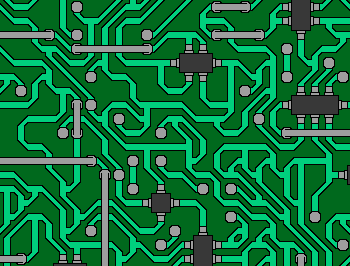
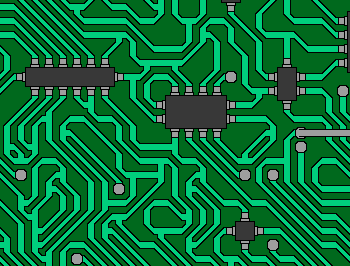
Document the three consumers and the demo page
The README described one command line tool with a feature list that no longer
matches anything. It now covers the library, the command, and the wasm solver,
with a working example of each. The library example is a doctest as well, so it
cannot drift.

AGENTS.md records what the code does not: which package owns what, the build
command per target, and the things that are easy to get wrong. Chief among
them, a sample image's tile size lives in its file name rather than anywhere in
the repo, so castle-115x30.png at 805 by 210 pixels wants -i 7 and a wrong
guess yields a tile set that cannot tile anything.

The example images are regenerated, since dropping unplaceable tiles changed
the landscape one.

diff --git a/crates/wave-function-collapse/src/lib.rs b/crates/wave-function-collapse/src/lib.rs
@@ -4,6 +4,41 @@
 //! sides. What a tile *is* stays with the caller: [`Tile`] carries a value of any
 //! type and the algorithm never reads it, so a caller that only needs the layout
 //! can solve over `Tile<()>`.
+//!
+//! # Examples
+//!
+//! ```
+//! use std::sync::Arc;
+//! use wave_function_collapse::{Grid, Neighbors, Set, SuperState, Tile, Wave};
+//!
+//! // Land never touches sea; shore goes between. The rules have to read the same
+//! // from both sides, or nothing can satisfy them.
+//! let tiles: Vec<Tile<&str>> = [
+//!     ("land", 0u64, [0, 1].as_slice()),
+//!     ("shore", 1, &[0, 1, 2]),
+//!     ("sea", 2, &[1, 2]),
+//! ]
+//! .into_iter()
+//! .map(|(name, id, allowed)| {
+//!     let allowed: Set<u64> = allowed.iter().copied().collect();
+//!
+//!     Tile::with_neighbors(id, name, 1, Neighbors::from_fn(|_| allowed.clone()))
+//! })
+//! .collect();
+//!
+//! let base = SuperState::new(tiles.into_iter().map(Arc::new).collect());
+//! let grid = Grid::new(40, 24, &mut |_, _| base.clone());
+//! let mut wave = Wave::new(grid, 20260903);
+//!
+//! wave.run(100);
+//! assert!(wave.done(), "gave up after {} restarts", wave.restarts());
+//!
+//! for (_x, _y, cell) in wave.grid().iter() {
+//!     let tile = cell.collapsed().expect("a finished wave has no open cell");
+//!
+//!     assert!(["land", "shore", "sea"].contains(&tile.value));
+//! }
+//! ```
 
 pub mod error;
 pub mod grid;

diff --git a/README.md b/README.md
@@ -1,63 +1,211 @@
 # Wave Function Collapse
 
-High-performance Rust implementation of the Wave Function Collapse algorithm for procedural image generation.
+Wave function collapse over a tile set, as a Rust library, a command line image
+generator, and a WebAssembly solver a JavaScript or TypeScript host can drive.
 
-## What it does
+Give it a set of tiles and which tiles may sit against which, and it fills a grid so
+that every neighbouring pair obeys those rules. Point it at a sample image instead
+and it works the tile set out for itself, cutting the image into a grid and reading
+adjacency from which tiles touch, so the output resembles the sample everywhere close
+up while being new at any larger scale.
 
-Wave Function Collapse analyzes patterns in an input image and generates new images that locally resemble the original while creating novel, larger compositions. The algorithm extracts small tile patterns from the input, learns adjacency rules, and uses constraint propagation to generate coherent output.
+![Circuit output](examples/circuit-example.png)
 
-## Usage
+## Layout
 
-Generate an image from a pattern:
+| Package | What it is |
+| --- | --- |
+| [`crates/wave-function-collapse`](crates/wave-function-collapse) | The algorithm. Six dependencies, no image handling, no I/O. |
+| [`crates/wfc-cli`](crates/wfc-cli) | The `wfc` command. Sample images, tile configs, PNG output, a live SDL2 view. |
+| [`crates/wfc-wasm`](crates/wfc-wasm) | The solver as a JavaScript module. Tile definitions in, grid state out. |
+
+A tile carries a value of any type that the algorithm never reads, so what a tile
+*is* belongs to whoever is using it: a `DynamicImage` for the command line tool, `()`
+for the wasm solver, whatever suits a caller of the library.
+
+## The command line tool
+
 ```sh
-cargo run --release -- images/circuit-1-57x30.png -i 14 -o 50x50 output/circuit-1.png
+cargo install --path crates/wfc-cli
 ```
 
-Visual mode (real-time generation):
+Needs SDL2 for the live view. Build with `--no-default-features` to skip it.
+
+Cut a sample image into 14 pixel tiles and fill a 50 by 50 grid:
+
 ```sh
-cargo run --release -- images/circuit-1-57x30.png -i 14 -o 50x50 --visual
+wfc images/circuit-1-57x30.png -i 14 -o 50x50 circuit.png
 ```
 
-## Feature Flags
+Watch it collapse in a window instead of writing a file:
 
-- `image` (default): Enables image processing, serialization, and text rendering
-- `sdl2` (default): Enables visual mode with real-time generation display
-- `threaded`: Enables parallel processing for faster generation
-
-Build with specific features:
 ```sh
-cargo build --release --features "image,threaded"  # Fast generation without visual mode
-cargo build --release --no-default-features --features "image"  # Minimal build
+wfc images/circuit-1-57x30.png -i 14 -o 50x50 --visual
 ```
+
+`-i` has to match the sample's tile size or the tiles come out as noise. The sample
+file names carry the grid, so `castle-115x30.png` at 805 by 210 pixels wants `-i 7`.
+
+Pass `--seed` to reproduce a result, `--slow` to redraw after every step, and
+`--max-restarts` to change how long it tries before giving up on a tile set that may
+not be able to fill the grid. `wfc --help` has the rest.
+
+A tile set can also be written out by hand, as JSON naming an image and four edge
+labels per tile, in up, right, down, left order. Two tiles may sit beside each other
+when the label on the side that touches reads as the reverse of the other's. These
+two therefore alternate, since neither label reverses to itself:
+
+```json
+[
+    { "image": "tiles/light.png", "slots": ["ab", "ab", "ab", "ab"] },
+    { "image": "tiles/dark.png",  "slots": ["ba", "ba", "ba", "ba"] }
+]
+```
+
+```sh
+wfc tiles.json -o 40x40 pipes.png
+```
+
+## The library
+
+```toml
+[dependencies]
+wave-function-collapse = "2"
+```
+
+Nothing optional, nothing to turn off, and no image or CLI dependency to inherit.
+
+```rust
+use std::sync::Arc;
+use wave_function_collapse::{Grid, Neighbors, Set, SuperState, Tile, Wave};
+
+// Land never touches sea; shore goes between. The rules have to read the same
+// from both sides, or nothing can satisfy them.
+let tiles: Vec<Tile<&str>> = [
+    ("land", 0u64, [0, 1].as_slice()),
+    ("shore", 1, &[0, 1, 2]),
+    ("sea", 2, &[1, 2]),
+]
+.into_iter()
+.map(|(name, id, allowed)| {
+    let allowed: Set<u64> = allowed.iter().copied().collect();
+
+    Tile::with_neighbors(id, name, 1, Neighbors::from_fn(|_| allowed.clone()))
+})
+.collect();
+
+let base = SuperState::new(tiles.into_iter().map(Arc::new).collect());
+let grid = Grid::new(40, 24, &mut |_, _| base.clone());
+let mut wave = Wave::new(grid, 20260903);
+
+wave.run(100);
+assert!(wave.done(), "gave up after {} restarts", wave.restarts());
+
+for (x, y, cell) in wave.grid().iter() {
+    let tile = cell.collapsed().expect("a finished wave has no open cell");
+
+    println!("({x}, {y}) is {}", tile.value);
+}
+```
+
+`run` takes a restart budget because a tile set that cannot tile the grid would
+otherwise restart forever. To own the loop instead, call `step(limit)` for a bounded
+amount of work and read the grid between calls; `done`, `remaining`, `restarts` and
+`base_entropy` say where it has got to.
+
+`threaded` is the one feature, and spreads the possibility filter over threads with
+rayon. It helps on large tile sets and costs on small ones.
+
+## The wasm solver
+
+The module is the algorithm and nothing else: 47 KB gzipped, no image decoding, no
+canvas, no DOM. It takes tile definitions as indices and weights, and hands back
+which tile landed in each cell, so the host decides what a tile looks like and owns
+its own render loop.
+
+```sh
+cd crates/wfc-wasm/www
+npm install
+npm run dev
+```
+
+That builds the module with `wasm-pack` and serves a demo that draws its tiles on a
+canvas: [`www/src/tiles.ts`](crates/wfc-wasm/www/src/tiles.ts) turns edge labels into
+the adjacency the solver wants, and
+[`www/src/main.ts`](crates/wfc-wasm/www/src/main.ts) is the loop.
+
+```ts
+import init, { Solver, randomSeed } from "./pkg/wfc_wasm";
+
+await init();
+
+// Two tiles, each allowed against either, drawn equally often.
+const solver = new Solver(
+    [
+        { up: [0, 1], right: [0, 1], down: [0, 1], left: [0, 1] },
+        { up: [0, 1], right: [0, 1], down: [0, 1], left: [0, 1], weight: 3 },
+    ],
+    40,
+    24,
+    randomSeed(),
+);
+
+const frame = () => {
+    const done = solver.stepFor(8);
+    const cells = solver.cells();
+
+    for (const cell of solver.dirtyCells()) {
+        const x = cell % solver.gridWidth;
+        const y = Math.floor(cell / solver.gridWidth);
+
+        paint(x, y, cells[cell]);   // -1 while the cell is still open
+    }
+
+    if (!done) requestAnimationFrame(frame);
+};
+
+requestAnimationFrame(frame);
+```
+
+`stepFor` never runs longer than the milliseconds it is given, so the frame stays
+yours. `cells` is the tile index per cell and `entropy` is how many possibilities
+each still has, which divided by `baseEntropy` shades a cell by how far it has
+narrowed down. `dirtyCells` lists what the last step changed, so a redraw touches a
+handful of cells rather than the grid. Types come from the generated `.d.ts`.
+
+Errors arrive as ordinary JavaScript exceptions: an empty tile set, a neighbour index
+that does not exist, a tile with a side nothing may sit against, a zero-sized grid.
 
 ## Examples
 
-### Circuit Generation
-Input: `images/circuit-1-57x30.png`
-```sh
-cargo run --release -- images/circuit-1-57x30.png -i 14 -o 25x19 examples/circuit-example.png
-```
-Creates complex electronic circuit patterns with proper connectivity.
-
-![Circuit Output](examples/circuit-example.png)
-
-### Summer Landscape
-Input: `images/summer-1-16x9.png`
-```sh
-cargo run --release -- images/summer-1-16x9.png -i 8 -o 64x36 examples/summer-example.png
-```
-Generates natural landscape variations with smooth transitions.
-
-![Summer Output](examples/summer-example.png)
-
-## Installation
-
-Requires Rust and SDL2 development libraries.
+Circuits, from `images/circuit-1-57x30.png` at `-i 14`:
 
 ```sh
-cargo build --release
+wfc images/circuit-1-57x30.png -i 14 -o 25x19 examples/circuit-example.png
 ```
+
+![Circuit output](examples/circuit-example.png)
+
+Landscape, from `images/summer-1-16x9.png` at `-i 8`:
+
+```sh
+wfc images/summer-1-16x9.png -i 8 -o 64x36 examples/summer-example.png
+```
+
+![Summer output](examples/summer-example.png)
+
+Sample images come from
+[mxgmn/WaveFunctionCollapse](https://github.com/mxgmn/WaveFunctionCollapse) and from
+video games; see [`images/README.md`](images/README.md).
+
+## Benchmarks
+
+```sh
+cargo bench -p wave-function-collapse
+```
+
+[`BENCHMARKS.md`](BENCHMARKS.md) covers what they measure and how to add more.
 
 ## License
 
-CC0 (Public Domain)
+CC0, public domain.

diff --git a/AGENTS.md b/AGENTS.md
@@ -1,0 +1,73 @@
+# Working in this repo
+
+## Layout
+
+Three packages in one workspace.
+
+- `crates/wave-function-collapse` is the algorithm and the published crate. It carries
+  six dependencies and knows nothing about images, files or terminals. Keep it that
+  way: a tile's value is a generic the algorithm never reads.
+- `crates/wfc-cli` is the `wfc` binary. Everything that knows what a tile looks like
+  belongs here, including cutting a sample image into tiles, reading a tile config,
+  composing the result, and the SDL2 view. Because an inherent impl only compiles in
+  the crate defining the type, additions to `Tile` or `Wave` that need `image` are
+  free functions in `tiles` or `compose`, not methods.
+- `crates/wfc-wasm` is the solver for a JavaScript host. It takes tile indices and
+  weights and returns grid state. It must never depend on `image`, `web-sys` or
+  anything else the CLI uses; `crates/wfc-wasm/www` is a demo that draws its own tiles.
+
+## Commands
+
+```sh
+cargo test -p wave-function-collapse            # the algorithm
+cargo test -p wave-function-collapse --features threaded
+cargo test -p wfc-cli                           # needs SDL2
+cargo test -p wfc-cli --no-default-features     # without the live view
+cargo clippy --workspace --all-targets           # CI runs this with -Dwarnings
+cargo fmt --all -- --check
+```
+
+The wasm package is not part of `--workspace` builds for the host in any useful sense.
+Build it for its own target:
+
+```sh
+cargo clippy -p wfc-wasm --target wasm32-unknown-unknown
+cd crates/wfc-wasm && wasm-pack build --target web --out-dir www/pkg
+cd crates/wfc-wasm/www && npm install && npm run dev    # 127.0.0.1:5173
+```
+
+Never `cargo build --workspace --target wasm32-unknown-unknown`. That builds the CLI
+for wasm too, which cannot work.
+
+## What CI enforces beyond the usual
+
+The library must not pick up CLI dependencies, and the wasm solver must not pick up
+image handling or OS randomness. Both are dependency-tree greps in
+`.github/workflows/rust.yml`. `rand` is deliberately `default-features = false` in the
+library: its `os_rng` default pulls in `getrandom`, which refuses to compile for
+`wasm32-unknown-unknown`. Every seed comes from the caller.
+
+## Things that are easy to get wrong
+
+**A sample image's tile size is not in the code.** It is encoded in the file name: the
+grid, not the pixels. `castle-115x30.png` is 805 by 210, so `-i 7`.
+`circles-24x10.png` is 768 by 320, so `-i 32`. Passing the wrong size produces a tile
+set that cannot tile anything, and the tool now reports that rather than hanging.
+
+**Adjacency has to read the same from both sides.** `neighbors[Up]` means the tiles
+allowed *above* this one. If tile A allows B above it, B has to allow A below it, or
+the set cannot be satisfied and the solver will restart forever. A tile set built
+from edge labels satisfies this by construction; one written by hand does not.
+
+**Edge labels pair by reversal, not equality.** Two tiles may touch when the label on
+the side that touches reads as the reverse of the other's, so `"ab"` meets `"ba"` and
+a palindrome like `"aa"` meets itself.
+
+**A wave that reports `done` has been checked.** `tick_cell` re-checks cells that
+have already collapsed, which is what catches a neighbour collapsing to something
+they forbid. Do not reintroduce an early return for `entropy == 1`, and keep the
+collapsed-cell count to one push per cell or `remaining()` goes wrong.
+
+**A tile set that cannot tile the grid restarts forever.** That is why `Wave::run`
+takes a restart budget and `Wave::restarts` is public. A caller that cannot wait has
+to make the give-up decision itself; the library will not make it for them.
